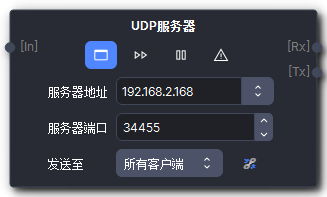
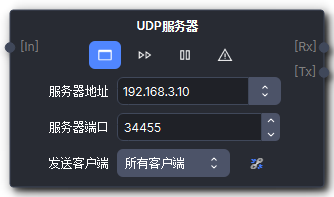
docs: update docs

diff --git a/docs/_includes/server.html b/docs/_includes/server.html
@@ -1,0 +1,17 @@
+<p> </p>
+<p>
+    <b>服务器地址</b><br />
+    服务器的IP
+</p>
+<p>
+    <b>服务器端口</b><br />
+    服务器的端口
+</p>
+<p>
+    <b>服务器端口</b><br />
+    服务器的端口
+</p>
+<p>
+    <b>发送客户端</b><br />
+    将输入的数据发送至指定客户端。
+</p>

diff --git a/docs/docs/4.nodes/4.1.5udpserver.md b/docs/docs/4.nodes/4.1.5udpserver.md
@@ -11,4 +11,6 @@ nav_order: 4.15
 
 ![UDP服务器]({{ site.baseurl }}/assets/images/UDP服务器.png#pic_center)
 
+{% include format.html %}
+
 > 从协议上来说，UDP没有所谓的客户端和服务器之分，UDP服务器节点在**接收到数据后**，会将对端socket当作客户端。
